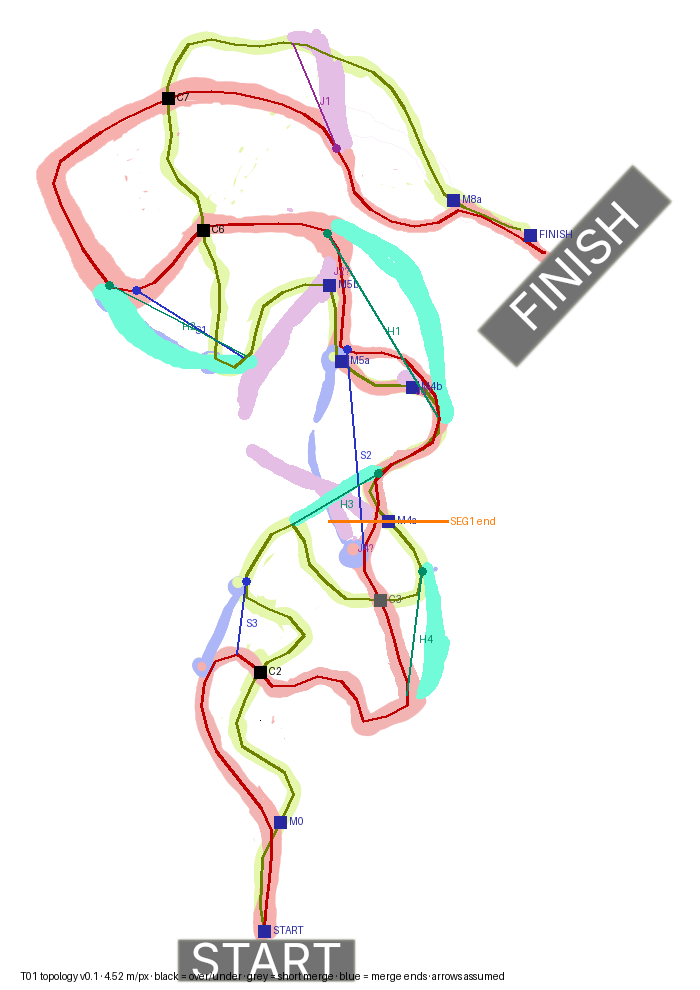
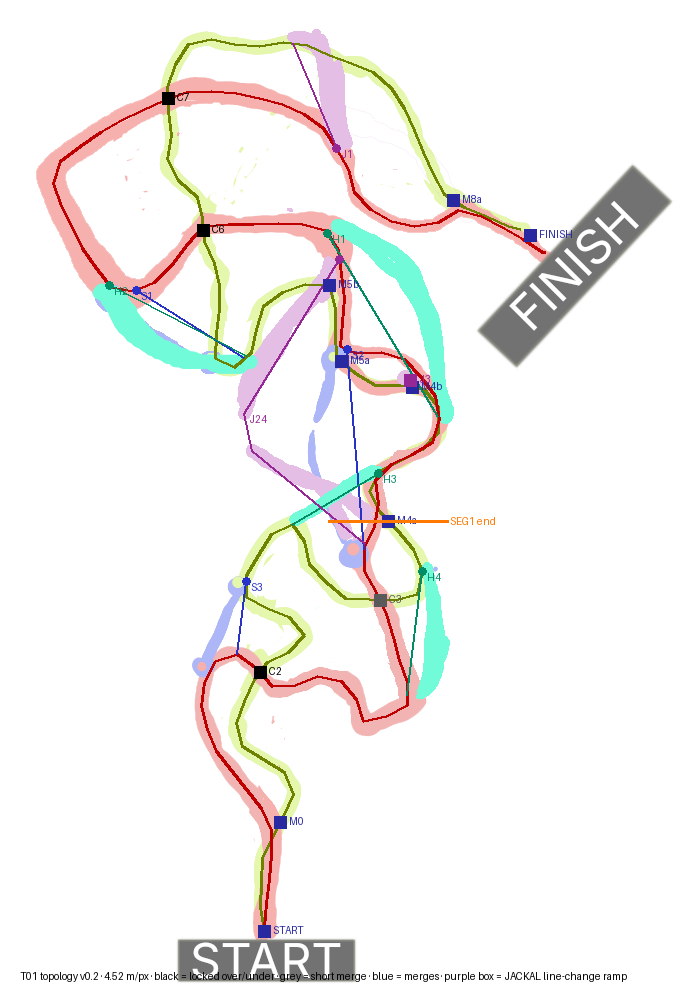
docs(T01): topology v0.2 with Gabriel's answers; lock C2/C6/C7
J24 JACKAL line (jump onto own track, rejoins B), J1 A->B confirmed,
J3 line-change ramp at M4b, S1/H2 side-by-side contact corridor
(robbery post-MVP), C2/C6/C7 locked over/under. D-037 amended; TK-01
spec, HANDMAP, JSON and overlay updated.

Claude-Session: https://claude.ai/code/session_019vbuSUFhFQ8DD6Qh5Ly2Fb

diff --git a/docs/tracks/T01/T01_topology.md b/docs/tracks/T01/T01_topology.md
@@ -1,8 +1,8 @@
-# T01 — Topology v0.1 (digitized hand map)
+# T01 — Topology v0.2 (digitized hand map + Gabriel's answers)
 
-- **Status:** Draft (architect, ARCH-003, 2026-10-12) · **Human owner:** Gabriel (layout) + Narrative & Game Designer
+- **Status:** Draft v0.2 (architect, ARCH-003, 2026-10-12; Gabriel's answers folded in) · **Human owner:** Gabriel (layout) + Narrative & Game Designer
 - **Source:** `T01_map_*.png` (Gabriel's hand map, D-037) · **Machine-readable:** `T01_topology.json` · **Overlay:** `T01_topology_overlay.png`
-- **How it was made:** main lines A and B were traced from the single-colour images (colour mask → skeleton → shortest path START→FINISH, 25 px samples). Connectors were placed from the perk images. Their **direction is assumed** (the race runs bottom → top); see § Questions.
+- **How it was made:** main lines A and B were traced from the single-colour images (colour mask → skeleton → shortest path START→FINISH, 25 px samples). Connectors were placed from the perk images. Directions confirmed by Gabriel are marked; the rest assume the race runs bottom → top.
 
 ![overlay](T01_topology_overlay.png)
 
@@ -21,12 +21,12 @@
 |---|---|---|---|---|---|
 | START | start | — | 0 | 0 | shared start straight (~0.5 km, wide: pack spreads out) |
 | M0 | split | — | 515 | 452 | end of the shared start |
-| C2 | crossing | **over/under (signature 1)** | 1347 | 1546 | first layer moment, teaches the stack |
+| C2 | crossing | **over/under, locked (signature 1)** | 1347 | 1546 | first layer moment, teaches the stack |
 | C3 | crossing | short merge (~100 m shared) | 2937 | 2870 | contact point; line change allowed |
-| M4a–M4b | merge | shared road (~0.85 km) | 3489–4352 | 3263–4063 | **segment 1 ends at M4a** |
+| M4a–M4b | merge | shared road (~0.85 km) | 3489–4352 | 3263–4063 | **segment 1 ends at M4a**; **J3** JACKAL line-change ramp at M4b |
 | M5a–M5b | merge | shared road (~0.35 km) | 4709–5066 | 4456–4777 | |
-| C6 | crossing | **over/under (signature 2)** | 6394 | 5617 | A lobe vs B top-left loop |
-| C7 | crossing | **over/under (signature 3)** | 7050 | 7343 | |
+| C6 | crossing | **over/under, locked (signature 2)** | 6394 | 5617 | A lobe vs B top-left loop |
+| C7 | crossing | **over/under, locked (signature 3)** | 7050 | 7343 | |
 | M8a–FINISH | merge | shared final run (~1 km) | 8875–9916 | 8943–10086 | to the Monolith uplink |
 
 ## Sections A vs B (between nodes)
@@ -44,25 +44,26 @@ Geometric length is solid. The time column uses a **placeholder speed model** (a
 
 **Finding 1: line-hopping beats both lines.** If every crossing lets you switch, the fastest run mixes lines (B up to C6, A from C6 to C7, B after). In the model that run takes 246 s, against 274 s for B only and 320 s for A only. B's top-left loop (C6→C7) is 1.07 km longer than A. A's lobe (M5b→C6) is 0.49 km longer than B.
 
-**Fix (proposal, P1): make C2, C6 and C7 over/under with no connection.** Line changes then happen only at merges (M0, C3, M4, M5, M8). The locked stretch M5b→M8a gives A 3.81 km and B 4.17 km, so the lengths nearly cancel and the remaining gap is only the speed model. After TK-00 measures real A/B speeds, shorten A by about 15–20 % on M0→C3 and M5b→M8a, or make A's surface less slow. Target: Δ ≤ 2 s per ~60 s section (D-037).
+**Decided (Gabriel left it to the architect, 2026-10-12): C2, C6 and C7 are over/under with no connection.** Line changes then happen only at merges (M0, C3, M4, M5, M8). The locked stretch M5b→M8a gives A 3.81 km and B 4.17 km, so the lengths nearly cancel and the remaining gap is only the speed model. After TK-00 measures real A/B speeds, shorten A by about 15–20 % on M0→C3 and M5b→M8a, or make A's surface less slow. Target: Δ ≤ 2 s per ~60 s section (D-037).
 
-## Class connectors (as drawn, direction assumed)
+## Class connectors
 "Gain" = metres saved against the best way to the same point on the mains, starting from the line the connector leaves.
 
 | Id | Class | From → to | Length (m) | Gain (m) | Verdict |
 |---|---|---|---|---|---|
 | S3 | sidecar | B@1415 → A@2006 (narrow cut after C2) | 746 | ~45 | too small to matter → make it a real cut or drop it |
 | S2 | sidecar | B@3118 → B@4456 (tunnel past B's mid S) | 926 | **411** | **too big** (HANDMAP 6): shorten or slow it (≈ 10 s today) |
-| S1 | sidecar | A@5649 → B@6015 (A lobe bottom → B loop, skips C6) | 542 | 600 | overlaps H2 (HANDMAP 3) |
+| S1 | sidecar | A@5649 → B@6015 (A lobe bottom → B loop, skips C6) | 542 | 600 | **side by side with H2** as one contact corridor (answer 4); trim the gain to ≤ ~3 s |
 | H4 | heavy | B@2418 → A@3218 (wall before M4) | 628 | ~104 | fine (≈ 3 s) |
 | H3 | heavy | A@2354 → M4 (diagonal across A's lobe, triple crossing) | 452 | **732** | **biggest shortcut on the map**: cap it with a slow breakable section or move its exit back |
 | H1 | heavy | M4@4149 → B@5016 (parallel brute line) | 1116 | ~0 | good "own line" with no shortcut; keep, tune by surface |
-| H2 | heavy | A@5635 → B@6142 (lobe bottom → B loop) | 832 | 438 | overlaps S1 (HANDMAP 3) |
-| J1 | jackal | A@7791 → B@8193 (top jump) | 637 | **−407** | loses distance: nobody takes it unless the jump is much faster, or reverse it (B→A) |
+| H2 | heavy | A@5635 → B@6142 (lobe bottom → B loop) | 832 | 438 | contact corridor with S1: the heavy can wreck the sidecar (impact damage, D-01) |
+| J1 | jackal | A@7791 → B@8193 (top jump, **A→B confirmed**) | 637 | −407 | loses distance but skips rough A: ≈ +2–3 s under the model, fine |
+| J24 | jackal | B@3141 → B@4885 (jump over the triple crossing, lands on its own track, rejoins B near M5b; **confirmed**) | 1640 | 104 | ≈ +5 s under the model, a little high: tune the landing track |
 
-Unresolved (not in the graph): **J2** (B/M5 end down to A's lobe bottom), **J4** (triple-crossing jump; its upper-left end lands in open space ~80 m from A), **J3** (isolated dot on M4, HANDMAP 8).
+**J3** (purple dot on M4b) = JACKAL ramp that changes line at the end of M4 (answer 3). Because C2, C6 and C7 are locked, this ramp is the JACKAL's private line-change point.
 
-**Finding 2: perk balance.** Sidecar and heavy shortcuts cluster in the middle third. The JACKAL has no working shortcut: J1 loses distance, J2 and J4 are unresolved. After the open questions are answered, the per-class gain should be within ±5 % of the run (D-035), so no class has a ~0.7 km cut while another has none.
+**Finding 2: perk balance (v0.2).** With J24, J1 and J3 the JACKAL now has its lines. Still too big: H3 (~730 m) and S2 (~410 m); tune them to ≤ ~3 s in CL-01. The target stays per-class gain within ±5 % of the run (D-035).
 
 ## Segments (proposal)
 | Segment | Task | From → to | Length |
@@ -78,9 +79,9 @@ SEG1 is longer than the 2.5 km in the backlog, but it is the natural cut. It con
 - Long learnable sections (≥ 60 s at the model speed): C7→M8a on A (1.83 km, ~61 s) and B's top-left loop C6→C7 (1.73 km, ~45 s). Pick one in TK-03 to be the "learn it" section.
 - There are no mandatory jumps on the mains. Every jump is an optional class connector, so the beginner rule is met as drawn.
 
-## Questions for Gabriel (blocking only for their pieces)
-1. **J4 / J2:** where does each JACKAL jump land, and which way is it driven?
-2. **J1:** is it A → B (top → lower road), as assumed? As drawn it loses ~400 m.
-3. **J3:** is the purple dot on M4 a ramp, or a leftover?
-4. **S1 / H2 overlap:** give it to one class, or keep both (sidecar tunnel under, heavy wall over)?
-5. **Lock C2/C6/C7** (no line change at those crossings): OK?
+## Answers (Gabriel, 2026-10-12)
+1. **J4 / J2** are one JACKAL line (**J24**): the jump lands on its own track, which then joins Main B.
+2. **J1** runs A → B, as assumed.
+3. **J3** is a ramp that lets you change line (JACKAL).
+4. **S1 / H2** run side by side. The heavy can badly damage the sidecar. Gabriel also wants the heavy to be open to robbery by the sidecar, but **robbery is post-MVP (D-032)**. MVP: contact and impact damage only; the corridor is the place robbery plugs in later.
+5. **Locking C2/C6/C7:** left to the architect. **Locked** (see Finding 1).

diff --git a/docs/specs/TK-01.md b/docs/specs/TK-01.md
@@ -12,11 +12,11 @@ Build the first ~3.4 km of T01 from Gabriel's hand map with real layers, so PT-A
 |---|---|
 | START → M0 | shared B-profile straight (~0.5 km), 4-wide grid start |
 | M0 split → C2 | A (8 m, rough) and B (14 m, smooth) diverge |
-| **C2 signature over/under** | B on `Road_L1` bridge over A on `Road_L0`, clearance ≥ 7 m; **no connection** (lock, topology P1) |
+| **C2 signature over/under** | B on `Road_L1` bridge over A on `Road_L0`, clearance ≥ 7 m; **no connection** (locked, D-037 amendment) |
 | C2 → C3 | A climbs to `Road_L2` along its lobe (high ledge), B stays mid; A drops back to meet B |
 | **C3 short merge** | ~100 m shared road; contact point; line change allowed |
 | C3 → M4a | split again; meet at M4a (segment end + checkpoint/split marker) |
-| Stubs | S3 (sidecar cut), H4 (heavy wall), H3 (heavy diagonal), S2 entry (sidecar tunnel), J4 (JACKAL ramp at the triple crossing): each is a 10–20 m entrance stub with a blocking barrier |
+| Stubs | S3 (sidecar cut), H4 (heavy wall), H3 (heavy diagonal), S2 entry (sidecar tunnel), J24 launch ramp (JACKAL jump over the triple crossing onto its own track): each is a 10–20 m entrance stub with a blocking barrier |
 | Triple-crossing stack (HANDMAP 4) | geometry reserved: three levels at map ≈ (330, 770); stubs only in TK-01 |
 | Backdrop | low ground from TR-01a `TerrainSynthesis` around the SEG1 bounding box (ADR-007 impact review) |
 
@@ -68,9 +68,8 @@ namespace Convoy.Race
 5. **Playtest checklist (TK-01c, Gabriel + one outside player):** a first-time player completes SEG1; each layer (L0/L1/L2) is used in ≥ 1 of 3 runs; both A and B are taken at least once; no wheel snag; ≥ 60 fps.
 6. **Measured times:** clean JACKAL run times on A-only and B-only for M0→C3 and C3→M4a, written into `T01_topology.md`; target Δ ≤ 2 s per ~60 s (D-037). If over, the PR proposes the shortening (do not silently change the layout).
 
-## Open questions (do not block TK-01a)
-- Lock C2 (no line change): HANDMAP / topology question 5. Built as locked; easy to add a link later.
-- J4 landing (topology question 1) only matters for CL-01; TK-01 builds the ramp stub only.
+## Resolved inputs
+- C2 locked (D-037 amendment). J24 lands on its own track and rejoins B near M5b (outside SEG1): TK-01 builds only its launch-ramp stub.
 
 ## Allowed files
 TK-01a: `Assets/_Convoy/Scripts/Race/{RaceRulesConfig,LayerFallRules,LayerFallMonitor,TrackRecoveryPoints,TrackRecoveryMath}.cs`, `Scripts/Vehicle/VehicleController.cs` (getter only), `Tests/EditMode/Race/LayerFall*Tests.cs`, `Tests/EditMode/Race/TrackRecovery*Tests.cs`. TK-01b: `Assets/_Convoy/Editor/Integration/TK01_Segment1Setup.cs`, `docs/tracks/T01/T01_seg1_heights.json` (new). TK-01c (orchestrator): `Scenes/T01_Seg1.unity`, `Config/Race/RaceRulesConfig.asset`, generated meshes under `Art/Generated/T01/`, metas; `docs/tracks/T01/T01_topology.md` (measured times).

diff --git a/docs/tracks/T01/T01_HANDMAP.md b/docs/tracks/T01/T01_HANDMAP.md
@@ -30,7 +30,7 @@
    - **Merge:** shared road, crew contact (PvP).
    - **Grade-separated crossing:** bridge / tunnel — this is where the D-035 layers live.
    - Pick **3 signature over/under crossings**; turn the rest into clean merges/splits. No ambiguous flat intersections.
-3. **Sidecar/heavy overlap top-left:** both connect B's loop (~100,575) to A (~220,640). Give it to one class, or split it: sidecar tunnel underneath, heavy breakable wall on a separate line.
+3. **Sidecar/heavy top-left:** both connect B's loop (~100,575) to A (~220,640). **Decided:** they run side by side as one contact corridor (answer 4).
 4. **Central triple crossing (~330,770) = signature moment.** JACKAL diagonal, heavy diagonal and sidecar vertical meet at one point. Stack it:
    - sidecar → tunnel on the low layer,
    - heavy → breakable wall at ground level,
@@ -42,7 +42,9 @@
    - **Sidecar:** passage width (natural gate).
    - **Heavy:** wall stays broken once rammed, leaving debris that slows followers (reuses LV-01 Rammer gate, class-based break per ARCH-003).
    - **JACKAL:** speed threshold (`ChasmJump.MinClearSpeed`). Other classes may attempt; failing drops them to the lower layer → O-004 toggle.
-8. **Open:** purple dot at ~(410,660) — ramp or drawing leftover? → ask Gabriel.
+8. **Answered:** the purple dot at ~(410,660) is a JACKAL ramp that changes line at the end of M4 (J3).
+
+**Gabriel's answers (2026-10-12):** J4+J2 = one JACKAL line (lands on its own track, joins B) · J1 runs A→B · S1/H2 run side by side as a contact corridor (heavy can wreck the sidecar; sidecar robbing the heavy is post-MVP, D-032) · C2/C6/C7 locked over/under (architect's call). Details: `T01_topology.md` v0.2.
 
 ## Next step (owned by ARCH-003)
 Digitize the map into a **node graph** — `T01_topology.md` + `T01_topology.json` in this folder:

diff --git a/docs/DECISIONS.md b/docs/DECISIONS.md
@@ -243,6 +243,7 @@ See `CLAUDE.md`. Summary: AI drafts on branches; humans review, own, and merge. 
 - **Why:** two full lines + mid-race line changes give more replay value and crew-vs-crew contact at every crossing than isolated per-segment forks. The earlier "FRACTURA" layout proposal (never committed) is not used.
 - **Rules (detail in `docs/tracks/T01/T01_HANDMAP.md`):** every A/B crossing is classified merge or grade-separated (3 signature over/under crossings); class gates are physical, never locks; failed JACKAL jumps feed the O-004 toggle; shortcut gain ≤ 2–3 s; A/B delta ≤ 2 s per ~60 s section; perks balanced across the last third.
 - **Next:** ARCH-003 digitizes the map into a node graph (`T01_topology.md` + `.json`) and derives the TK-01 spec (segment 1 from START) from it.
+- **Amended 2026-10-12 (Gabriel's answers, topology v0.2):** crossings C2, C6, C7 are **locked over/under** (no line change; stops line-hopping); J4+J2 = one JACKAL line (J24) that lands on its own track and rejoins B; J3 = JACKAL line-change ramp at the end of M4; S1 and H2 run side by side as a contact corridor (robbery there is post-MVP, D-032).
 
 ## D-038 — MVP class & track architecture (ADR-007)
 **Date:** 2026-10-12 · **Status:** Proposed (architect, ARCH-003) — Lead Dev + Gabriel to approve
